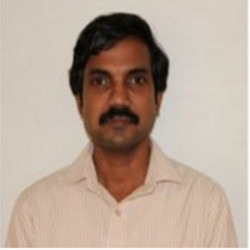
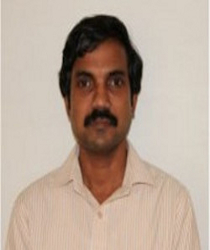
change pictures

diff --git a/website/templates/base.html b/website/templates/base.html
@@ -107,18 +107,18 @@
       <h2 class="centered">SPEAKERS</h2>
       <hr>
       <div class="col-lg-3 centered" style="margin-left:15%">
-        <img src="{% static 'img/jarrod-scaled.png' %}" class="img img-circle" alt=""></img>
-        <h4><a href="http://www.jarrodmillman.com/" target="_blank"><strong>Jarrod Millman</strong></a></h4>
-        <p></p>
-        <a href="https://github.com/jarrodmillman" target="_blank"><img width=30 height=30 src="{% static 'img/github.png' %}"></img></a>
-        <a href="http://www.jarrodmillman.com/" target="_blank"><img width=30 height=30 src="{% static 'img/internet.png' %}"></img></a>
-      </div>
-      <div class="col-lg-3 centered">
         <img src="{% static 'img/andreas-scaled.png' %}" class="img img-circle" alt=""></img>
         <h4><a href="http://mathema.tician.de/" target="_blank"><strong>Andreas Klöckner</strong></a></h4>
         <p></p>
         <a href="https://github.com/inducer" target="_blank"><img width=30 height=30 src="{% static 'img/github.png' %}"></img></a>
         <a href="http://mathema.tician.de/" target="_blank"><img width=30 height=30 src="{% static 'img/internet.png' %}"></img></a>
+      </div>
+      <div class="col-lg-3 centered">
+        <img src="{% static 'img/jarrod-scaled.png' %}" class="img img-circle" alt=""></img>
+        <h4><a href="http://www.jarrodmillman.com/" target="_blank"><strong>Jarrod Millman</strong></a></h4>
+        <p></p>
+        <a href="https://github.com/jarrodmillman" target="_blank"><img width=30 height=30 src="{% static 'img/github.png' %}"></img></a>
+        <a href="http://www.jarrodmillman.com/" target="_blank"><img width=30 height=30 src="{% static 'img/internet.png' %}"></img></a>
       </div>
       <div class="col-lg-3 centered"> <img src="{% static 'img/ajith-scaled.jpg' %}" class="img img-circle" alt=""></img>
         <h4><a href="http://expeyes.in/" target="_blank"><strong>Dr. Ajith Kumar</strong></a></h4>

diff --git a/website/static/css/bootstrap.css b/website/static/css/bootstrap.css
@@ -330,7 +330,8 @@ img {
 }
 .img-circle {
   border-radius: 50%;
-  width: 220px;
+  width: 210px;
+  height:250px;
 }
 hr {
   margin-top: 20px;
